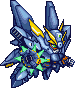
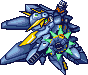
Fixed Projectiles
Character projectiles now fire to the right rather than straight up

diff --git a/ShadowMultiplayer/RoboCat/Src/Yarn.cpp b/ShadowMultiplayer/RoboCat/Src/Yarn.cpp
@@ -25,7 +25,7 @@ uint32_t Yarn::Write( OutputMemoryBitStream& inOutputStream, uint32_t inDirtySta
 
 		Vector3 velocity = GetVelocity();
 		inOutputStream.Write( velocity.mX );
-		inOutputStream.Write( velocity.mY * 0);
+		inOutputStream.Write( velocity.mY );
 
 		inOutputStream.Write( GetRotation() );
 

diff --git a/ShadowMultiplayer/RoboCat/Src/GameObject.cpp b/ShadowMultiplayer/RoboCat/Src/GameObject.cpp
@@ -4,7 +4,7 @@ GameObject::GameObject() :
 	mIndexInWorld( -1 ),
 	mCollisionRadius( 1.f ),
 	mDoesWantToDie( false ),
-	mRotation( 0.f ),
+	mRotation( 90.f ),
 	mNetworkId( 0 ),
 	mColor( Colors::White ),
 	mScale( 1.0f )
